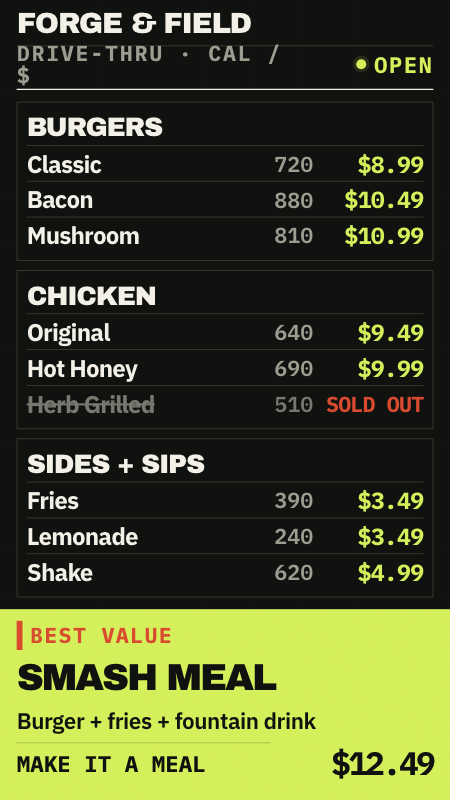
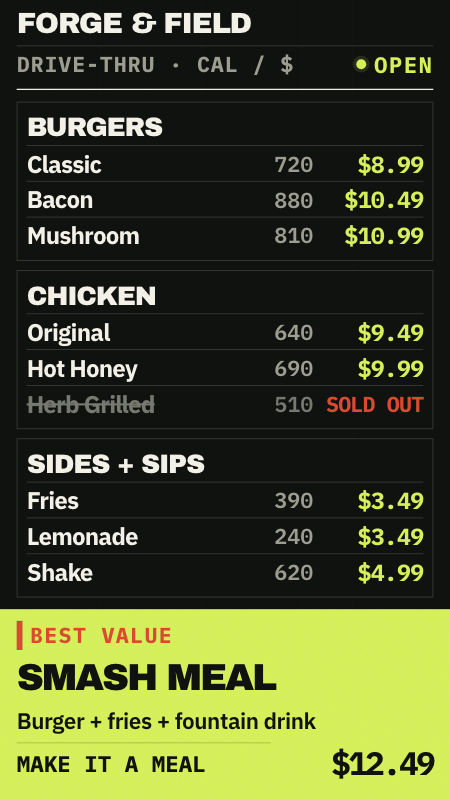
fix(templates): drive-thru portrait header wrapped, orphaning the "$"
The service-mode legend ("Drive-Thru · Cal / $") wrapped in the portrait
composition, dropping a lone "$" onto a second line. Cause: the portrait
masthead grid was `1fr 360px`, leaving the legend ~640px while it needs ~700px
at the 52px signage floor — and the standard forbids shrinking visible editable
text below 52px, so the fix is layout, not type size.

Give the legend the slack the status chip doesn't need (`1fr 300px`), tighten
tracking .08em -> .04em, and nowrap so longer operator copy stays on one line.
Verified at native 1080x1920: one line, 52px, no overflow. Landscape is
untouched (only .is-portrait rules changed).

Also fixes the poster-freshness guard for two-composition boards: it mapped a
board to its LANDSCAPE poster only, so a portrait-only fix (which leaves the
landscape poster byte-identical) would have failed CI. It now accepts either
poster, and the violation message no longer calls a function that was removed
(it would have crashed exactly when reporting a failure).

Changed region(s): [[0.0311, 0.0312, 0.3733, 0.125], [0.4356, 0.0312, 0.6533, 0.0938]]

diff --git a/apps/web/public/templates/signage/qsr/redesign-drive-thru-v1-lane-one.html b/apps/web/public/templates/signage/qsr/redesign-drive-thru-v1-lane-one.html
@@ -219,7 +219,12 @@ body {
 
     .is-portrait .masthead {
       left:40px; right:40px; height:216px;
-      grid-template-columns:1fr 360px; grid-template-rows:116px 76px;
+      /* 2026-07-24 — was `1fr 360px`, which left the service-mode legend only
+         ~640px. "Drive-Thru · Cal / $" needs ~700px at the 52px signage floor,
+         so it wrapped and orphaned the "$" on a second line. The status chip
+         ("Open") needs far less than 360px, so give the legend the slack
+         instead of shrinking type below 52px. */
+      grid-template-columns:1fr 300px; grid-template-rows:116px 76px;
     }
     .is-portrait .brand {
       grid-column:1 / 3; width:100%; height:105px; font-size:70px;
@@ -227,6 +232,9 @@ body {
     }
     .is-portrait .mode {
       justify-content:flex-start; height:76px; font-size:52px;
+      /* Tighter tracking + nowrap so operator-entered copy stays on one line
+         rather than orphaning a trailing token. */
+      letter-spacing:.04em; white-space:nowrap;
     }
     .is-portrait .state { height:76px; font-size:54px; }
     .is-portrait .menu-area {

diff --git a/apps/web/src/components/templates/ScaledTemplateThumbnail.tsx b/apps/web/src/components/templates/ScaledTemplateThumbnail.tsx
@@ -123,7 +123,7 @@ function posterFor(zones: Zone[]): string | null {
 
 /** Bump on every poster regeneration so browsers/CDN refetch the new PNGs.
  *  Date-based; append a letter for multiple regens in one day (…24b). */
-const POSTER_VERSION = '20260724d';
+const POSTER_VERSION = '20260724e';
 
 export function ScaledTemplateThumbnail({
   zones, screenWidth, screenHeight, bgImage, bgGradient, bgColor, maxHeight = 150, freeze = false,
